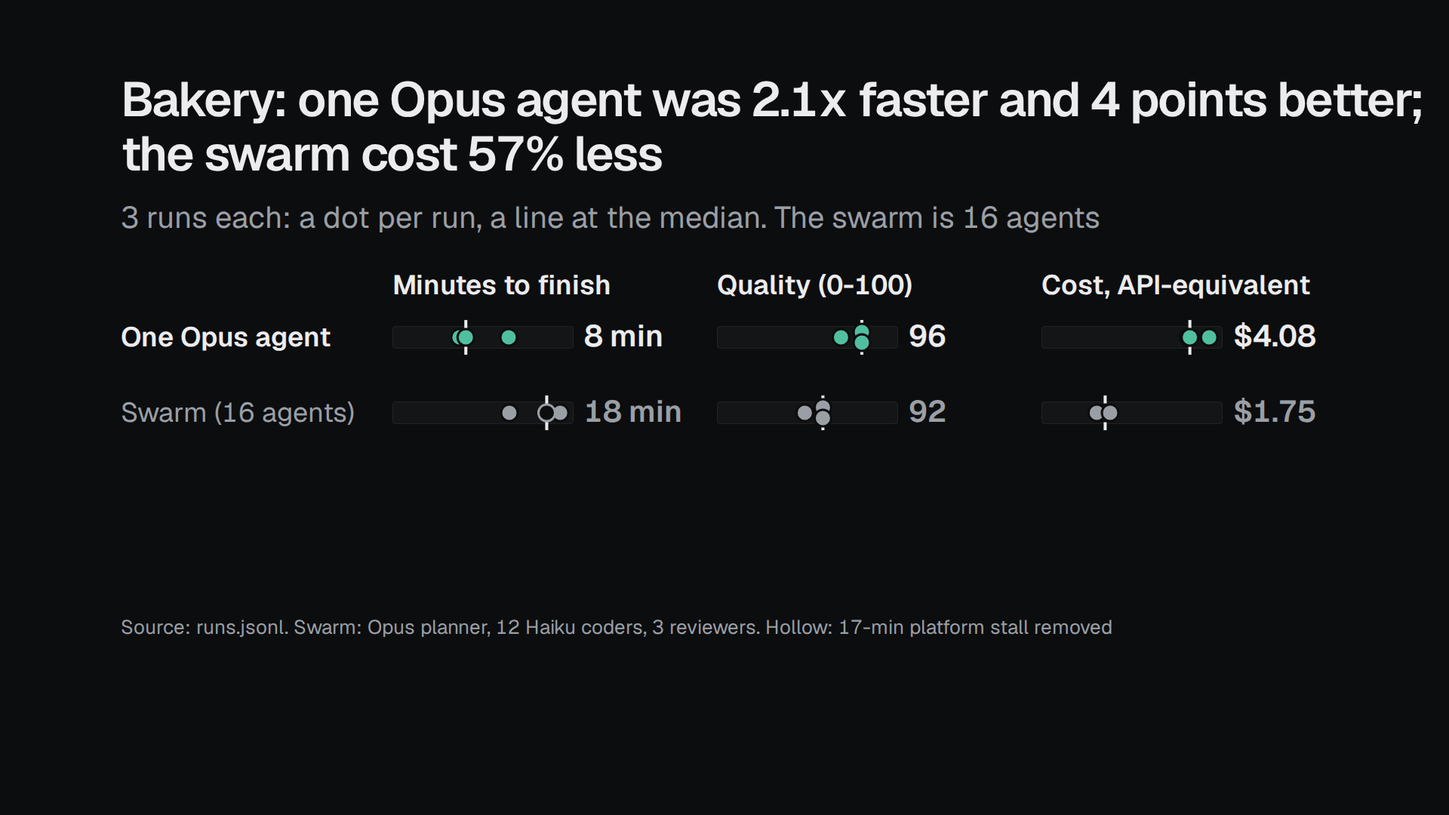
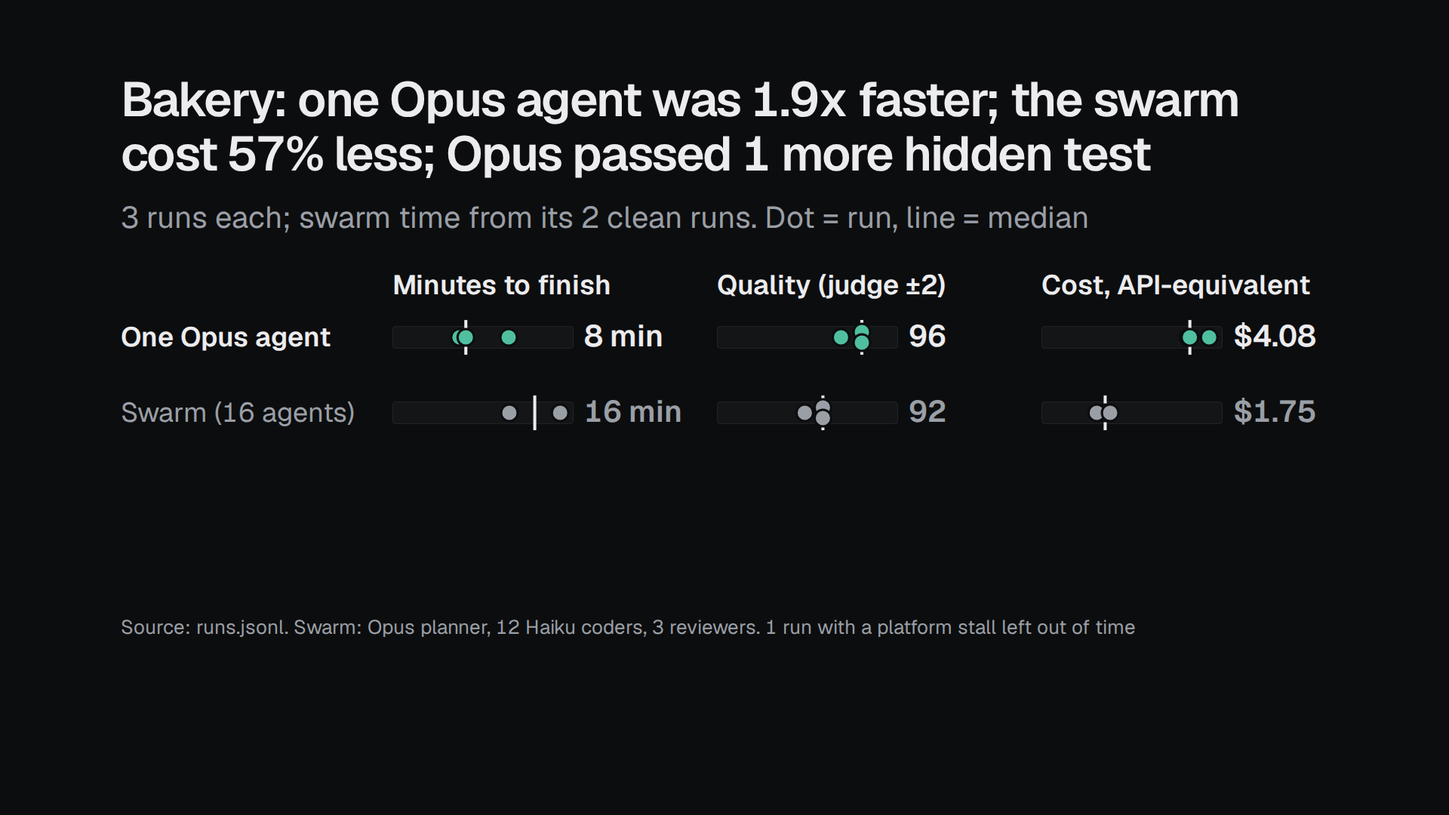
Lab charts: stalled runs left out of time (manager's rule, no stall subtraction); quality said in hidden tests passed (judge gap = tie)
Bakery: swarm time from its 2 clean runs (811, 1163 s -> median 987 s) vs Opus 509 s = 1.9x;
quality: Opus passed 1 more hidden test (26 vs 25 of 26). Club: interim, 'the same quality:
both passed 42 of 42'. Under 15% apart reads 'about as fast'.

diff --git a/docs/lab/charts/index.html b/docs/lab/charts/index.html
@@ -26,10 +26,16 @@ footer { margin-top: 56px; color: var(--dim); font-size: 13px; }
 <header><h1>Variants lab: results</h1>
 <p>Real runs from public/lab/runs.jsonl: each dot is one run; quality is the lab score (hidden tests, floor, a Sonnet judge).</p></header>
 <section id="lab-bakery" aria-labelledby="lab-bakery-h">
-<h2 id="lab-bakery-h" hidden>Bakery: one Opus agent was 2.1x faster and 4 points better; the swarm cost 57% less</h2>
-<div class="L"><svg xmlns="http://www.w3.org/2000/svg" style="aspect-ratio:1920/1080" viewBox="0 0 1920 1080" role="img" aria-label="Bakery: one Opus agent was 2.1x faster and 4 points better; the swarm cost 57% less" font-family="Geist, 'Instrument Sans', system-ui, sans-serif"><rect width="1920" height="1080" fill="var(--bg)"/><text x="160" y="154.4" font-size="64" font-weight="600" fill="var(--fg)" letter-spacing="-1.6" style="font-variant-numeric:tabular-nums">Bakery: one Opus agent was 2.1x faster and 4 points better;</text><text x="160" y="226.08" font-size="64" font-weight="600" fill="var(--fg)" letter-spacing="-1.6" style="font-variant-numeric:tabular-nums">the swarm cost 57% less</text><text x="160" y="302.08000000000004" font-size="40" font-weight="400" fill="var(--dim)" style="font-variant-numeric:tabular-nums">3 runs each: a dot per run, a line at the median. The swarm is 16 agents</text><text x="520" y="390.08000000000004" font-size="36" font-weight="600" fill="var(--fg)" style="font-variant-numeric:tabular-nums">Minutes to finish</text><text x="160" y="459.08000000000004" font-size="36" font-weight="600" fill="var(--fg)" style="font-variant-numeric:tabular-nums">One Opus agent</text><rect x="520" y="432.08000000000004" width="240" height="30" rx="4" fill="var(--card)"/><rect x="520.5" y="432.58000000000004" width="239" height="29" rx="4" fill="none" stroke="var(--line)"/><rect x="615.2580491067163" y="424.08000000000004" width="4" height="46" fill="var(--fg)"><title>One Opus agent, median 8 min</title></rect><circle cx="674.0078341454093" cy="447.08000000000004" r="11" fill="var(--acc)" stroke="var(--bg)" stroke-width="3"/><circle cx="608.8506735454284" cy="447.08000000000004" r="11" fill="var(--acc)" stroke="var(--bg)" stroke-width="3"/><circle cx="617.2580491067163" cy="447.08000000000004" r="11" fill="var(--acc)" stroke="var(--bg)" stroke-width="3"/><text x="774" y="459.08000000000004" font-size="40" font-weight="600" fill="var(--fg)" style="font-variant-numeric:tabular-nums">8 min</text><text x="160" y="559.08" font-size="36" font-weight="400" fill="var(--dim)" style="font-variant-numeric:tabular-nums">Swarm (16 agents)</text><rect x="520" y="532.08" width="240" height="30" rx="4" fill="var(--card)"/><rect x="520.5" y="532.58" width="239" height="29" rx="4" fill="none" stroke="var(--line)"/><rect x="722.4520875131365" y="524.08" width="4" height="46" fill="var(--fg)"><title>Swarm (16 agents), median 18 min</title></rect><circle cx="674.9632177319194" cy="547.08" r="11" fill="var(--dim)" stroke="var(--bg)" stroke-width="3"/><circle cx="742.2222222222222" cy="547.08" r="11" fill="var(--dim)" stroke="var(--bg)" stroke-width="3"/><circle cx="724.4520875131365" cy="547.08" r="11" fill="var(--bg)" stroke="var(--dim)" stroke-width="3"/><text x="774" y="559.08" font-size="40" font-weight="600" fill="var(--dim)" style="font-variant-numeric:tabular-nums">18 min</text><text x="950" y="390.08000000000004" font-size="36" font-weight="600" fill="var(--fg)" style="font-variant-numeric:tabular-nums">Quality (0-100)</text><rect x="950" y="432.08000000000004" width="240" height="30" rx="4" fill="var(--card)"/><rect x="950.5" y="432.58000000000004" width="239" height="29" rx="4" fill="none" stroke="var(--line)"/><rect x="1140" y="424.08000000000004" width="4" height="46" fill="var(--fg)"><title>One Opus agent, median 96</title></rect><circle cx="1142" cy="440.08000000000004" r="11" fill="var(--acc)" stroke="var(--bg)" stroke-width="3"/><circle cx="1142" cy="454.08000000000004" r="11" fill="var(--acc)" stroke="var(--bg)" stroke-width="3"/><circle cx="1114.4" cy="447.08000000000004" r="11" fill="var(--acc)" stroke="var(--bg)" stroke-width="3"/><text x="1204" y="459.08000000000004" font-size="40" font-weight="600" fill="var(--fg)" style="font-variant-numeric:tabular-nums">96</text><rect x="950" y="532.08" width="240" height="30" rx="4" fill="var(--card)"/><rect x="950.5" y="532.58" width="239" height="29" rx="4" fill="none" stroke="var(--line)"/><rect x="1088.4" y="524.08" width="4" height="46" fill="var(--fg)"><title>Swarm (16 agents), median 92</title></rect><circle cx="1066.4" cy="547.08" r="11" fill="var(--dim)" stroke="var(--bg)" stroke-width="3"/><circle cx="1090.4" cy="540.08" r="11" fill="var(--dim)" stroke="var(--bg)" stroke-width="3"/><circle cx="1090.4" cy="554.08" r="11" fill="var(--dim)" stroke="var(--bg)" stroke-width="3"/><text x="1204" y="559.08" font-size="40" font-weight="600" fill="var(--dim)" style="font-variant-numeric:tabular-nums">92</text><text x="1380" y="390.08000000000004" font-size="36" font-weight="600" fill="var(--fg)" style="font-variant-numeric:tabular-nums">Cost, API-equivalent</text><rect x="1380" y="432.08000000000004" width="240" height="30" rx="4" fill="var(--card)"/><rect x="1380.5" y="432.58000000000004" width="239" height="29" rx="4" fill="none" stroke="var(--line)"/><rect x="1574.6423392827035" y="424.08000000000004" width="4" height="46" fill="var(--fg)"><title>One Opus agent, median $4.08</title></rect><circle cx="1574.4745525929138" cy="447.08000000000004" r="11" fill="var(--acc)" stroke="var(--bg)" stroke-width="3"/><circle cx="1576.6423392827035" cy="447.08000000000004" r="11" fill="var(--acc)" stroke="var(--bg)" stroke-width="3"/><circle cx="1602.2222222222222" cy="447.08000000000004" r="11" fill="var(--acc)" stroke="var(--bg)" stroke-width="3"/><text x="1634" y="459.08000000000004" font-size="40" font-weight="600" fill="var(--fg)" style="font-variant-numeric:tabular-nums">$4.08</text><rect x="1380" y="532.08" width="240" height="30" rx="4" fill="var(--card)"/><rect x="1380.5" y="532.58" width="239" height="29" rx="4" fill="none" stroke="var(--line)"/><rect x="1462.3991617891465" y="524.08" width="4" height="46" fill="var(--fg)"><title>Swarm (16 agents), median $1.75</title></rect><circle cx="1464.3991617891465" cy="547.08" r="11" fill="var(--dim)" stroke="var(--bg)" stroke-width="3"/><circle cx="1453.3193631524437" cy="547.08" r="11" fill="var(--dim)" stroke="var(--bg)" stroke-width="3"/><circle cx="1470.9988679336175" cy="547.08" r="11" fill="var(--dim)" stroke="var(--bg)" stroke-width="3"/><text x="1634" y="559.08" font-size="40" font-weight="600" fill="var(--dim)" style="font-variant-numeric:tabular-nums">$1.75</text><text x="160" y="840" font-size="26" font-weight="400" fill="var(--dim)" style="font-variant-numeric:tabular-nums">Source: runs.jsonl. Swarm: Opus planner, 12 Haiku coders, 3 reviewers. Hollow: 17-min platform stall removed</text></svg></div><div class="P"><svg xmlns="http://www.w3.org/2000/svg" style="aspect-ratio:1080/1350" viewBox="0 0 1080 1350" role="img" aria-label="Bakery: one Opus agent was 2.1x faster and 4 points better; the swarm cost 57% less" font-family="Geist, 'Instrument Sans', system-ui, sans-serif"><rect width="1080" height="1350" fill="var(--bg)"/><text x="56" y="136.7" font-size="62" font-weight="600" fill="var(--fg)" letter-spacing="-1.6" style="font-variant-numeric:tabular-nums">Bakery: one Opus agent was 2.1x</text><text x="56" y="206.14" font-size="62" font-weight="600" fill="var(--fg)" letter-spacing="-1.6" style="font-variant-numeric:tabular-nums">faster and 4 points better; the</text><text x="56" y="275.58000000000004" font-size="62" font-weight="600" fill="var(--fg)" letter-spacing="-1.6" style="font-variant-numeric:tabular-nums">swarm cost 57% less</text><text x="56" y="355.58000000000004" font-size="44" font-weight="400" fill="var(--dim)" style="font-variant-numeric:tabular-nums">3 runs each, dot = a run,</text><text x="56" y="414.98" font-size="44" font-weight="400" fill="var(--dim)" style="font-variant-numeric:tabular-nums">line = the median</text><text x="56" y="506.98" font-size="40" font-weight="600" fill="var(--fg)" style="font-variant-numeric:tabular-nums">Minutes to finish</text><text x="56" y="564.98" font-size="34" font-weight="600" fill="var(--fg)" style="font-variant-numeric:tabular-nums">Opus</text><rect x="206" y="538.98" width="678" height="30" rx="4" fill="var(--card)"/><rect x="206.5" y="539.48" width="677" height="29" rx="4" fill="none" stroke="var(--line)"/><rect x="478.75398872647366" y="530.98" width="4" height="46" fill="var(--fg)"><title>One Opus agent, median 8 min</title></rect><circle cx="641.0721314607815" cy="553.98" r="11" fill="var(--acc)" stroke="var(--bg)" stroke-width="3"/><circle cx="457.00315276583547" cy="553.98" r="11" fill="var(--acc)" stroke="var(--bg)" stroke-width="3"/><circle cx="480.75398872647366" cy="553.98" r="11" fill="var(--acc)" stroke="var(--bg)" stroke-width="3"/><text x="898" y="565.98" font-size="36" font-weight="600" fill="var(--fg)" style="font-variant-numeric:tabular-nums">8 min</text><text x="56" y="634.98" font-size="34" font-weight="400" fill="var(--dim)" style="font-variant-numeric:tabular-nums">Swarm</text><rect x="206" y="608.98" width="678" height="30" rx="4" fill="var(--card)"/><rect x="206.5" y="609.48" width="677" height="29" rx="4" fill="none" stroke="var(--line)"/><rect x="781.5771472246106" y="600.98" width="4" height="46" fill="var(--fg)"><title>Swarm (16 agents), median 18 min</title></rect><circle cx="643.7710900926722" cy="623.98" r="11" fill="var(--dim)" stroke="var(--bg)" stroke-width="3"/><circle cx="833.7777777777777" cy="623.98" r="11" fill="var(--dim)" stroke="var(--bg)" stroke-width="3"/><circle cx="783.5771472246106" cy="623.98" r="11" fill="var(--bg)" stroke="var(--dim)" stroke-width="3"/><text x="898" y="635.98" font-size="36" font-weight="600" fill="var(--dim)" style="font-variant-numeric:tabular-nums">18 min</text><text x="56" y="746.98" font-size="40" font-weight="600" fill="var(--fg)" style="font-variant-numeric:tabular-nums">Quality (0-100)</text><text x="56" y="804.98" font-size="34" font-weight="600" fill="var(--fg)" style="font-variant-numeric:tabular-nums">Opus</text><rect x="206" y="778.98" width="678" height="30" rx="4" fill="var(--card)"/><rect x="206.5" y="779.48" width="677" height="29" rx="4" fill="none" stroke="var(--line)"/><rect x="746.4" y="770.98" width="4" height="46" fill="var(--fg)"><title>One Opus agent, median 96</title></rect><circle cx="748.4" cy="786.98" r="11" fill="var(--acc)" stroke="var(--bg)" stroke-width="3"/><circle cx="748.4" cy="800.98" r="11" fill="var(--acc)" stroke="var(--bg)" stroke-width="3"/><circle cx="670.4300000000001" cy="793.98" r="11" fill="var(--acc)" stroke="var(--bg)" stroke-width="3"/><text x="898" y="805.98" font-size="36" font-weight="600" fill="var(--fg)" style="font-variant-numeric:tabular-nums">96</text><text x="56" y="874.98" font-size="34" font-weight="400" fill="var(--dim)" style="font-variant-numeric:tabular-nums">Swarm</text><rect x="206" y="848.98" width="678" height="30" rx="4" fill="var(--card)"/><rect x="206.5" y="849.48" width="677" height="29" rx="4" fill="none" stroke="var(--line)"/><rect x="600.6300000000001" y="840.98" width="4" height="46" fill="var(--fg)"><title>Swarm (16 agents), median 92</title></rect><circle cx="534.8300000000002" cy="863.98" r="11" fill="var(--dim)" stroke="var(--bg)" stroke-width="3"/><circle cx="602.6300000000001" cy="856.98" r="11" fill="var(--dim)" stroke="var(--bg)" stroke-width="3"/><circle cx="602.6300000000001" cy="870.98" r="11" fill="var(--dim)" stroke="var(--bg)" stroke-width="3"/><text x="898" y="875.98" font-size="36" font-weight="600" fill="var(--dim)" style="font-variant-numeric:tabular-nums">92</text><text x="56" y="986.98" font-size="40" font-weight="600" fill="var(--fg)" style="font-variant-numeric:tabular-nums">Cost, API-equivalent</text><text x="56" y="1044.98" font-size="34" font-weight="600" fill="var(--fg)" style="font-variant-numeric:tabular-nums">Opus</text><rect x="206" y="1018.98" width="678" height="30" rx="4" fill="var(--card)"/><rect x="206.5" y="1019.48" width="677" height="29" rx="4" fill="none" stroke="var(--line)"/><rect x="759.5146084736373" y="1010.98" width="4" height="46" fill="var(--fg)"><title>One Opus agent, median $4.08</title></rect><circle cx="755.3906110749813" cy="1033.98" r="11" fill="var(--acc)" stroke="var(--bg)" stroke-width="3"/><circle cx="761.5146084736373" cy="1033.98" r="11" fill="var(--acc)" stroke="var(--bg)" stroke-width="3"/><circle cx="833.7777777777778" cy="1033.98" r="11" fill="var(--acc)" stroke="var(--bg)" stroke-width="3"/><text x="898" y="1045.98" font-size="36" font-weight="600" fill="var(--fg)" style="font-variant-numeric:tabular-nums">$4.08</text><text x="56" y="1114.98" font-size="34" font-weight="400" fill="var(--dim)" style="font-variant-numeric:tabular-nums">Swarm</text><rect x="206" y="1088.98" width="678" height="30" rx="4" fill="var(--card)"/><rect x="206.5" y="1089.48" width="677" height="29" rx="4" fill="none" stroke="var(--line)"/><rect x="442.42763205433914" y="1080.98" width="4" height="46" fill="var(--fg)"><title>Swarm (16 agents), median $1.75</title></rect><circle cx="444.42763205433914" cy="1103.98" r="11" fill="var(--dim)" stroke="var(--bg)" stroke-width="3"/><circle cx="413.1272009056531" cy="1103.98" r="11" fill="var(--dim)" stroke="var(--bg)" stroke-width="3"/><circle cx="463.0718019124696" cy="1103.98" r="11" fill="var(--dim)" stroke="var(--bg)" stroke-width="3"/><text x="898" y="1115.98" font-size="36" font-weight="600" fill="var(--dim)" style="font-variant-numeric:tabular-nums">$1.75</text><text x="56" y="1252" font-size="30" font-weight="400" fill="var(--dim)" style="font-variant-numeric:tabular-nums">Source: runs.jsonl. Swarm: Opus planner, 12 Haiku</text><text x="56" y="1291" font-size="30" font-weight="400" fill="var(--dim)" style="font-variant-numeric:tabular-nums">coders, 3 reviewers. Hollow: 17-min platform stall removed</text></svg></div>
-<details><summary>The numbers</summary><table><tr><th>run</th><th>variant</th><th>minutes</th><th>platform stall</th><th>quality</th><th>API-equivalent $</th></tr><tr><td>lab-bakery-712d7-r1</td><td>one Opus agent</td><td>13.4</td><td></td><td>96</td><td>4.04</td></tr><tr><td>lab-bakery-aa826-r2</td><td>one Opus agent</td><td>7.8</td><td></td><td>96</td><td>4.08</td></tr><tr><td>lab-bakery-aa826-r3</td><td>one Opus agent</td><td>8.5</td><td></td><td>93.7</td><td>4.61</td></tr><tr><td>lab-bakery-7fe05-r1</td><td>swarm</td><td>13.5</td><td></td><td>89.7</td><td>1.75</td></tr><tr><td>lab-bakery-bfe16-r2</td><td>swarm</td><td>19.4</td><td></td><td>91.7</td><td>1.52</td></tr><tr><td>lab-bakery-bfe16-r3</td><td>swarm</td><td>34.8</td><td>17.0 min</td><td>91.7</td><td>1.89</td></tr></table>
+<h2 id="lab-bakery-h" hidden>Bakery: one Opus agent was 1.9x faster; the swarm cost 57% less; Opus passed 1 more hidden test</h2>
+<div class="L"><svg xmlns="http://www.w3.org/2000/svg" style="aspect-ratio:1920/1080" viewBox="0 0 1920 1080" role="img" aria-label="Bakery: one Opus agent was 1.9x faster; the swarm cost 57% less; Opus passed 1 more hidden test" font-family="Geist, 'Instrument Sans', system-ui, sans-serif"><rect width="1920" height="1080" fill="var(--bg)"/><text x="160" y="154.4" font-size="64" font-weight="600" fill="var(--fg)" letter-spacing="-1.6" style="font-variant-numeric:tabular-nums">Bakery: one Opus agent was 1.9x faster; the swarm</text><text x="160" y="226.08" font-size="64" font-weight="600" fill="var(--fg)" letter-spacing="-1.6" style="font-variant-numeric:tabular-nums">cost 57% less; Opus passed 1 more hidden test</text><text x="160" y="302.08000000000004" font-size="40" font-weight="400" fill="var(--dim)" style="font-variant-numeric:tabular-nums">3 runs each; swarm time from its 2 clean runs. Dot = run, line = median</text><text x="520" y="390.08000000000004" font-size="36" font-weight="600" fill="var(--fg)" style="font-variant-numeric:tabular-nums">Minutes to finish</text><text x="160" y="459.08000000000004" font-size="36" font-weight="600" fill="var(--fg)" style="font-variant-numeric:tabular-nums">One Opus agent</text><rect x="520" y="432.08000000000004" width="240" height="30" rx="4" fill="var(--card)"/><rect x="520.5" y="432.58000000000004" width="239" height="29" rx="4" fill="none" stroke="var(--line)"/><rect x="615.2580491067163" y="424.08000000000004" width="4" height="46" fill="var(--fg)"><title>One Opus agent, median 8 min</title></rect><circle cx="674.0078341454093" cy="447.08000000000004" r="11" fill="var(--acc)" stroke="var(--bg)" stroke-width="3"/><circle cx="608.8506735454284" cy="447.08000000000004" r="11" fill="var(--acc)" stroke="var(--bg)" stroke-width="3"/><circle cx="617.2580491067163" cy="447.08000000000004" r="11" fill="var(--acc)" stroke="var(--bg)" stroke-width="3"/><text x="774" y="459.08000000000004" font-size="40" font-weight="600" fill="var(--fg)" style="font-variant-numeric:tabular-nums">8 min</text><text x="160" y="559.08" font-size="36" font-weight="400" fill="var(--dim)" style="font-variant-numeric:tabular-nums">Swarm (16 agents)</text><rect x="520" y="532.08" width="240" height="30" rx="4" fill="var(--card)"/><rect x="520.5" y="532.58" width="239" height="29" rx="4" fill="none" stroke="var(--line)"/><rect x="706.5927199770708" y="524.08" width="4" height="46" fill="var(--fg)"><title>Swarm (16 agents), median 16 min</title></rect><circle cx="674.9632177319194" cy="547.08" r="11" fill="var(--dim)" stroke="var(--bg)" stroke-width="3"/><circle cx="742.2222222222222" cy="547.08" r="11" fill="var(--dim)" stroke="var(--bg)" stroke-width="3"/><text x="774" y="559.08" font-size="40" font-weight="600" fill="var(--dim)" style="font-variant-numeric:tabular-nums">16 min</text><text x="950" y="390.08000000000004" font-size="36" font-weight="600" fill="var(--fg)" style="font-variant-numeric:tabular-nums">Quality (judge ±2)</text><rect x="950" y="432.08000000000004" width="240" height="30" rx="4" fill="var(--card)"/><rect x="950.5" y="432.58000000000004" width="239" height="29" rx="4" fill="none" stroke="var(--line)"/><rect x="1140" y="424.08000000000004" width="4" height="46" fill="var(--fg)"><title>One Opus agent, median 96</title></rect><circle cx="1142" cy="440.08000000000004" r="11" fill="var(--acc)" stroke="var(--bg)" stroke-width="3"/><circle cx="1142" cy="454.08000000000004" r="11" fill="var(--acc)" stroke="var(--bg)" stroke-width="3"/><circle cx="1114.4" cy="447.08000000000004" r="11" fill="var(--acc)" stroke="var(--bg)" stroke-width="3"/><text x="1204" y="459.08000000000004" font-size="40" font-weight="600" fill="var(--fg)" style="font-variant-numeric:tabular-nums">96</text><rect x="950" y="532.08" width="240" height="30" rx="4" fill="var(--card)"/><rect x="950.5" y="532.58" width="239" height="29" rx="4" fill="none" stroke="var(--line)"/><rect x="1088.4" y="524.08" width="4" height="46" fill="var(--fg)"><title>Swarm (16 agents), median 92</title></rect><circle cx="1066.4" cy="547.08" r="11" fill="var(--dim)" stroke="var(--bg)" stroke-width="3"/><circle cx="1090.4" cy="540.08" r="11" fill="var(--dim)" stroke="var(--bg)" stroke-width="3"/><circle cx="1090.4" cy="554.08" r="11" fill="var(--dim)" stroke="var(--bg)" stroke-width="3"/><text x="1204" y="559.08" font-size="40" font-weight="600" fill="var(--dim)" style="font-variant-numeric:tabular-nums">92</text><text x="1380" y="390.08000000000004" font-size="36" font-weight="600" fill="var(--fg)" style="font-variant-numeric:tabular-nums">Cost, API-equivalent</text><rect x="1380" y="432.08000000000004" width="240" height="30" rx="4" fill="var(--card)"/><rect x="1380.5" y="432.58000000000004" width="239" height="29" rx="4" fill="none" stroke="var(--line)"/><rect x="1574.6423392827035" y="424.08000000000004" width="4" height="46" fill="var(--fg)"><title>One Opus agent, median $4.08</title></rect><circle cx="1574.4745525929138" cy="447.08000000000004" r="11" fill="var(--acc)" stroke="var(--bg)" stroke-width="3"/><circle cx="1576.6423392827035" cy="447.08000000000004" r="11" fill="var(--acc)" stroke="var(--bg)" stroke-width="3"/><circle cx="1602.2222222222222" cy="447.08000000000004" r="11" fill="var(--acc)" stroke="var(--bg)" stroke-width="3"/><text x="1634" y="459.08000000000004" font-size="40" font-weight="600" fill="var(--fg)" style="font-variant-numeric:tabular-nums">$4.08</text><rect x="1380" y="532.08" width="240" height="30" rx="4" fill="var(--card)"/><rect x="1380.5" y="532.58" width="239" height="29" rx="4" fill="none" stroke="var(--line)"/><rect x="1462.3991617891465" y="524.08" width="4" height="46" fill="var(--fg)"><title>Swarm (16 agents), median $1.75</title></rect><circle cx="1464.3991617891465" cy="547.08" r="11" fill="var(--dim)" stroke="var(--bg)" stroke-width="3"/><circle cx="1453.3193631524437" cy="547.08" r="11" fill="var(--dim)" stroke="var(--bg)" stroke-width="3"/><circle cx="1470.9988679336175" cy="547.08" r="11" fill="var(--dim)" stroke="var(--bg)" stroke-width="3"/><text x="1634" y="559.08" font-size="40" font-weight="600" fill="var(--dim)" style="font-variant-numeric:tabular-nums">$1.75</text><text x="160" y="840" font-size="26" font-weight="400" fill="var(--dim)" style="font-variant-numeric:tabular-nums">Source: runs.jsonl. Swarm: Opus planner, 12 Haiku coders, 3 reviewers. 1 run with a platform stall left out of time</text></svg></div><div class="P"><svg xmlns="http://www.w3.org/2000/svg" style="aspect-ratio:1080/1350" viewBox="0 0 1080 1350" role="img" aria-label="Bakery: one Opus agent was 1.9x faster; the swarm cost 57% less; Opus passed 1 more hidden test" font-family="Geist, 'Instrument Sans', system-ui, sans-serif"><rect width="1080" height="1350" fill="var(--bg)"/><text x="56" y="136.7" font-size="62" font-weight="600" fill="var(--fg)" letter-spacing="-1.6" style="font-variant-numeric:tabular-nums">Bakery: one Opus agent was 1.9x</text><text x="56" y="206.14" font-size="62" font-weight="600" fill="var(--fg)" letter-spacing="-1.6" style="font-variant-numeric:tabular-nums">faster; the swarm cost 57%</text><text x="56" y="275.58000000000004" font-size="62" font-weight="600" fill="var(--fg)" letter-spacing="-1.6" style="font-variant-numeric:tabular-nums">less; Opus passed 1 more hidden</text><text x="56" y="345.02" font-size="62" font-weight="600" fill="var(--fg)" letter-spacing="-1.6" style="font-variant-numeric:tabular-nums">test</text><text x="56" y="425.02000000000004" font-size="44" font-weight="400" fill="var(--dim)" style="font-variant-numeric:tabular-nums">3 runs each; swarm time from its 2 clean runs, dot = a run,</text><text x="56" y="484.4200000000001" font-size="44" font-weight="400" fill="var(--dim)" style="font-variant-numeric:tabular-nums">line = the median</text><text x="56" y="576.4200000000001" font-size="40" font-weight="600" fill="var(--fg)" style="font-variant-numeric:tabular-nums">Minutes to finish</text><text x="56" y="634.4200000000001" font-size="34" font-weight="600" fill="var(--fg)" style="font-variant-numeric:tabular-nums">Opus</text><rect x="206" y="608.4200000000001" width="678" height="30" rx="4" fill="var(--card)"/><rect x="206.5" y="608.9200000000001" width="677" height="29" rx="4" fill="none" stroke="var(--line)"/><rect x="478.75398872647366" y="600.4200000000001" width="4" height="46" fill="var(--fg)"><title>One Opus agent, median 8 min</title></rect><circle cx="641.0721314607815" cy="623.4200000000001" r="11" fill="var(--acc)" stroke="var(--bg)" stroke-width="3"/><circle cx="457.00315276583547" cy="623.4200000000001" r="11" fill="var(--acc)" stroke="var(--bg)" stroke-width="3"/><circle cx="480.75398872647366" cy="623.4200000000001" r="11" fill="var(--acc)" stroke="var(--bg)" stroke-width="3"/><text x="898" y="635.4200000000001" font-size="36" font-weight="600" fill="var(--fg)" style="font-variant-numeric:tabular-nums">8 min</text><text x="56" y="704.4200000000001" font-size="34" font-weight="400" fill="var(--dim)" style="font-variant-numeric:tabular-nums">Swarm</text><rect x="206" y="678.4200000000001" width="678" height="30" rx="4" fill="var(--card)"/><rect x="206.5" y="678.9200000000001" width="677" height="29" rx="4" fill="none" stroke="var(--line)"/><rect x="736.7744339352249" y="670.4200000000001" width="4" height="46" fill="var(--fg)"><title>Swarm (16 agents), median 16 min</title></rect><circle cx="643.7710900926722" cy="693.4200000000001" r="11" fill="var(--dim)" stroke="var(--bg)" stroke-width="3"/><circle cx="833.7777777777777" cy="693.4200000000001" r="11" fill="var(--dim)" stroke="var(--bg)" stroke-width="3"/><text x="898" y="705.4200000000001" font-size="36" font-weight="600" fill="var(--dim)" style="font-variant-numeric:tabular-nums">16 min</text><text x="56" y="796.9466666666667" font-size="40" font-weight="600" fill="var(--fg)" style="font-variant-numeric:tabular-nums">Quality (judge ±2)</text><text x="56" y="854.9466666666667" font-size="34" font-weight="600" fill="var(--fg)" style="font-variant-numeric:tabular-nums">Opus</text><rect x="206" y="828.9466666666667" width="678" height="30" rx="4" fill="var(--card)"/><rect x="206.5" y="829.4466666666667" width="677" height="29" rx="4" fill="none" stroke="var(--line)"/><rect x="746.4" y="820.9466666666667" width="4" height="46" fill="var(--fg)"><title>One Opus agent, median 96</title></rect><circle cx="748.4" cy="836.9466666666667" r="11" fill="var(--acc)" stroke="var(--bg)" stroke-width="3"/><circle cx="748.4" cy="850.9466666666667" r="11" fill="var(--acc)" stroke="var(--bg)" stroke-width="3"/><circle cx="670.4300000000001" cy="843.9466666666667" r="11" fill="var(--acc)" stroke="var(--bg)" stroke-width="3"/><text x="898" y="855.9466666666667" font-size="36" font-weight="600" fill="var(--fg)" style="font-variant-numeric:tabular-nums">96</text><text x="56" y="924.9466666666667" font-size="34" font-weight="400" fill="var(--dim)" style="font-variant-numeric:tabular-nums">Swarm</text><rect x="206" y="898.9466666666667" width="678" height="30" rx="4" fill="var(--card)"/><rect x="206.5" y="899.4466666666667" width="677" height="29" rx="4" fill="none" stroke="var(--line)"/><rect x="600.6300000000001" y="890.9466666666667" width="4" height="46" fill="var(--fg)"><title>Swarm (16 agents), median 92</title></rect><circle cx="534.8300000000002" cy="913.9466666666667" r="11" fill="var(--dim)" stroke="var(--bg)" stroke-width="3"/><circle cx="602.6300000000001" cy="906.9466666666667" r="11" fill="var(--dim)" stroke="var(--bg)" stroke-width="3"/><circle cx="602.6300000000001" cy="920.9466666666667" r="11" fill="var(--dim)" stroke="var(--bg)" stroke-width="3"/><text x="898" y="925.9466666666667" font-size="36" font-weight="600" fill="var(--dim)" style="font-variant-numeric:tabular-nums">92</text><text x="56" y="1017.4733333333334" font-size="40" font-weight="600" fill="var(--fg)" style="font-variant-numeric:tabular-nums">Cost, API-equivalent</text><text x="56" y="1075.4733333333334" font-size="34" font-weight="600" fill="var(--fg)" style="font-variant-numeric:tabular-nums">Opus</text><rect x="206" y="1049.4733333333334" width="678" height="30" rx="4" fill="var(--card)"/><rect x="206.5" y="1049.9733333333334" width="677" height="29" rx="4" fill="none" stroke="var(--line)"/><rect x="759.5146084736373" y="1041.4733333333334" width="4" height="46" fill="var(--fg)"><title>One Opus agent, median $4.08</title></rect><circle cx="755.3906110749813" cy="1064.4733333333334" r="11" fill="var(--acc)" stroke="var(--bg)" stroke-width="3"/><circle cx="761.5146084736373" cy="1064.4733333333334" r="11" fill="var(--acc)" stroke="var(--bg)" stroke-width="3"/><circle cx="833.7777777777778" cy="1064.4733333333334" r="11" fill="var(--acc)" stroke="var(--bg)" stroke-width="3"/><text x="898" y="1076.4733333333334" font-size="36" font-weight="600" fill="var(--fg)" style="font-variant-numeric:tabular-nums">$4.08</text><text x="56" y="1145.4733333333334" font-size="34" font-weight="400" fill="var(--dim)" style="font-variant-numeric:tabular-nums">Swarm</text><rect x="206" y="1119.4733333333334" width="678" height="30" rx="4" fill="var(--card)"/><rect x="206.5" y="1119.9733333333334" width="677" height="29" rx="4" fill="none" stroke="var(--line)"/><rect x="442.42763205433914" y="1111.4733333333334" width="4" height="46" fill="var(--fg)"><title>Swarm (16 agents), median $1.75</title></rect><circle cx="444.42763205433914" cy="1134.4733333333334" r="11" fill="var(--dim)" stroke="var(--bg)" stroke-width="3"/><circle cx="413.1272009056531" cy="1134.4733333333334" r="11" fill="var(--dim)" stroke="var(--bg)" stroke-width="3"/><circle cx="463.0718019124696" cy="1134.4733333333334" r="11" fill="var(--dim)" stroke="var(--bg)" stroke-width="3"/><text x="898" y="1146.4733333333334" font-size="36" font-weight="600" fill="var(--dim)" style="font-variant-numeric:tabular-nums">$1.75</text><text x="56" y="1252" font-size="30" font-weight="400" fill="var(--dim)" style="font-variant-numeric:tabular-nums">Source: runs.jsonl. Swarm: Opus planner, 12 Haiku</text><text x="56" y="1291" font-size="30" font-weight="400" fill="var(--dim)" style="font-variant-numeric:tabular-nums">coders, 3 reviewers. 1 run with a platform stall left out of time</text></svg></div>
+<details><summary>The numbers</summary><table><tr><th>run</th><th>variant</th><th>minutes</th><th>platform stall</th><th>hidden tests</th><th>judge</th><th>quality</th><th>API-equivalent $</th></tr><tr><td>lab-bakery-712d7-r1</td><td>one Opus agent</td><td>13.4</td><td></td><td>26/26</td><td>8</td><td>96</td><td>4.04</td></tr><tr><td>lab-bakery-aa826-r2</td><td>one Opus agent</td><td>7.8</td><td></td><td>26/26</td><td>8</td><td>96</td><td>4.08</td></tr><tr><td>lab-bakery-aa826-r3</td><td>one Opus agent</td><td>8.5</td><td></td><td>25/26</td><td>8</td><td>93.7</td><td>4.61</td></tr><tr><td>lab-bakery-7fe05-r1</td><td>swarm</td><td>13.5</td><td></td><td>25/26</td><td>6</td><td>89.7</td><td>1.75</td></tr><tr><td>lab-bakery-bfe16-r2</td><td>swarm</td><td>19.4</td><td></td><td>25/26</td><td>7</td><td>91.7</td><td>1.52</td></tr><tr><td>lab-bakery-bfe16-r3</td><td>swarm</td><td>34.8</td><td>yes: left out of time</td><td>25/26</td><td>7</td><td>91.7</td><td>1.89</td></tr></table>
 <p class="files">Source: public/lab/runs.jsonl, scenario bakery, status done. Files: <a href="lab-bakery-1920x1080-dark.png">1920x1080 dark</a> <a href="lab-bakery-1920x1080-light.png">1920x1080 light</a> <a href="lab-bakery-1080x1350-dark.png">1080x1350 dark</a> <a href="lab-bakery-1080x1350-light.png">1080x1350 light</a></p></details>
+</section>
+<section id="lab-club" aria-labelledby="lab-club-h">
+<h2 id="lab-club-h" hidden>Club: one Opus agent was 1.5x faster; the swarm cost 50% less; the same quality: both passed 42 of 42 hidden tests</h2>
+<div class="L"><svg xmlns="http://www.w3.org/2000/svg" style="aspect-ratio:1920/1080" viewBox="0 0 1920 1080" role="img" aria-label="Club: one Opus agent was 1.5x faster; the swarm cost 50% less; the same quality: both passed 42 of 42 hidden tests" font-family="Geist, 'Instrument Sans', system-ui, sans-serif"><rect width="1920" height="1080" fill="var(--bg)"/><text x="160" y="154.4" font-size="64" font-weight="600" fill="var(--fg)" letter-spacing="-1.6" style="font-variant-numeric:tabular-nums">Club: one Opus agent was 1.5x faster; the swarm</text><text x="160" y="226.08" font-size="64" font-weight="600" fill="var(--fg)" letter-spacing="-1.6" style="font-variant-numeric:tabular-nums">cost 50% less; the same quality: both passed 42 of</text><text x="160" y="297.76" font-size="64" font-weight="600" fill="var(--fg)" letter-spacing="-1.6" style="font-variant-numeric:tabular-nums">42 hidden tests</text><text x="160" y="373.76" font-size="40" font-weight="400" fill="var(--dim)" style="font-variant-numeric:tabular-nums">Interim, 1 vs 2 runs; swarm time from its 1 clean run. Dot = run, line = median</text><text x="520" y="461.76" font-size="36" font-weight="600" fill="var(--fg)" style="font-variant-numeric:tabular-nums">Minutes to finish</text><text x="160" y="530.76" font-size="36" font-weight="600" fill="var(--fg)" style="font-variant-numeric:tabular-nums">One Opus agent</text><rect x="520" y="503.76" width="240" height="30" rx="4" fill="var(--card)"/><rect x="520.5" y="504.26" width="239" height="29" rx="4" fill="none" stroke="var(--line)"/><rect x="667.5557315034749" y="495.76" width="4" height="46" fill="var(--fg)"><title>One Opus agent, median 14 min</title></rect><circle cx="669.5557315034749" cy="518.76" r="11" fill="var(--acc)" stroke="var(--bg)" stroke-width="3"/><text x="774" y="530.76" font-size="40" font-weight="600" fill="var(--fg)" style="font-variant-numeric:tabular-nums">14 min</text><text x="160" y="630.76" font-size="36" font-weight="400" fill="var(--dim)" style="font-variant-numeric:tabular-nums">Swarm (16 agents)</text><rect x="520" y="603.76" width="240" height="30" rx="4" fill="var(--card)"/><rect x="520.5" y="604.26" width="239" height="29" rx="4" fill="none" stroke="var(--line)"/><rect x="740.2222222222222" y="595.76" width="4" height="46" fill="var(--fg)"><title>Swarm (16 agents), median 21 min</title></rect><circle cx="742.2222222222222" cy="618.76" r="11" fill="var(--dim)" stroke="var(--bg)" stroke-width="3"/><text x="774" y="630.76" font-size="40" font-weight="600" fill="var(--dim)" style="font-variant-numeric:tabular-nums">21 min</text><text x="950" y="461.76" font-size="36" font-weight="600" fill="var(--fg)" style="font-variant-numeric:tabular-nums">Quality (judge ±2)</text><rect x="950" y="503.76" width="240" height="30" rx="4" fill="var(--card)"/><rect x="950.5" y="504.26" width="239" height="29" rx="4" fill="none" stroke="var(--line)"/><rect x="1044" y="495.76" width="4" height="46" fill="var(--fg)"><title>One Opus agent, median 88</title></rect><circle cx="1046" cy="518.76" r="11" fill="var(--acc)" stroke="var(--bg)" stroke-width="3"/><text x="1204" y="530.76" font-size="40" font-weight="600" fill="var(--fg)" style="font-variant-numeric:tabular-nums">88</text><rect x="950" y="603.76" width="240" height="30" rx="4" fill="var(--card)"/><rect x="950.5" y="604.26" width="239" height="29" rx="4" fill="none" stroke="var(--line)"/><rect x="1092" y="595.76" width="4" height="46" fill="var(--fg)"><title>Swarm (16 agents), median 92</title></rect><circle cx="1094" cy="611.76" r="11" fill="var(--dim)" stroke="var(--bg)" stroke-width="3"/><circle cx="1094" cy="625.76" r="11" fill="var(--dim)" stroke="var(--bg)" stroke-width="3"/><text x="1204" y="630.76" font-size="40" font-weight="600" fill="var(--dim)" style="font-variant-numeric:tabular-nums">92</text><text x="1380" y="461.76" font-size="36" font-weight="600" fill="var(--fg)" style="font-variant-numeric:tabular-nums">Cost, API-equivalent</text><rect x="1380" y="503.76" width="240" height="30" rx="4" fill="var(--card)"/><rect x="1380.5" y="504.26" width="239" height="29" rx="4" fill="none" stroke="var(--line)"/><rect x="1600.2222222222222" y="495.76" width="4" height="46" fill="var(--fg)"><title>One Opus agent, median $5.78</title></rect><circle cx="1602.2222222222222" cy="518.76" r="11" fill="var(--acc)" stroke="var(--bg)" stroke-width="3"/><text x="1634" y="530.76" font-size="40" font-weight="600" fill="var(--fg)" style="font-variant-numeric:tabular-nums">$5.78</text><rect x="1380" y="603.76" width="240" height="30" rx="4" fill="var(--card)"/><rect x="1380.5" y="604.26" width="239" height="29" rx="4" fill="none" stroke="var(--line)"/><rect x="1489.9947748578454" y="595.76" width="4" height="46" fill="var(--fg)"><title>Swarm (16 agents), median $2.92</title></rect><circle cx="1490.1506070385738" cy="618.76" r="11" fill="var(--dim)" stroke="var(--bg)" stroke-width="3"/><circle cx="1493.8389426771168" cy="618.76" r="11" fill="var(--dim)" stroke="var(--bg)" stroke-width="3"/><text x="1634" y="630.76" font-size="40" font-weight="600" fill="var(--dim)" style="font-variant-numeric:tabular-nums">$2.92</text><text x="160" y="840" font-size="26" font-weight="400" fill="var(--dim)" style="font-variant-numeric:tabular-nums">Source: runs.jsonl. Swarm: Opus planner, 12 Haiku coders, 3 reviewers. 1 run with a platform stall left out of time</text></svg></div><div class="P"><svg xmlns="http://www.w3.org/2000/svg" style="aspect-ratio:1080/1350" viewBox="0 0 1080 1350" role="img" aria-label="Club: one Opus agent was 1.5x faster; the swarm cost 50% less; the same quality: both passed 42 of 42 hidden tests" font-family="Geist, 'Instrument Sans', system-ui, sans-serif"><rect width="1080" height="1350" fill="var(--bg)"/><text x="56" y="136.7" font-size="62" font-weight="600" fill="var(--fg)" letter-spacing="-1.6" style="font-variant-numeric:tabular-nums">Club: one Opus agent was 1.5x</text><text x="56" y="206.14" font-size="62" font-weight="600" fill="var(--fg)" letter-spacing="-1.6" style="font-variant-numeric:tabular-nums">faster; the swarm cost 50%</text><text x="56" y="275.58000000000004" font-size="62" font-weight="600" fill="var(--fg)" letter-spacing="-1.6" style="font-variant-numeric:tabular-nums">less; the same quality: both</text><text x="56" y="345.02" font-size="62" font-weight="600" fill="var(--fg)" letter-spacing="-1.6" style="font-variant-numeric:tabular-nums">passed 42 of 42 hidden tests</text><text x="56" y="425.02000000000004" font-size="44" font-weight="400" fill="var(--dim)" style="font-variant-numeric:tabular-nums">Interim, 1 vs 2 runs; swarm time from its 1 clean run, dot = a run,</text><text x="56" y="484.4200000000001" font-size="44" font-weight="400" fill="var(--dim)" style="font-variant-numeric:tabular-nums">line = the median</text><text x="56" y="576.4200000000001" font-size="40" font-weight="600" fill="var(--fg)" style="font-variant-numeric:tabular-nums">Minutes to finish</text><text x="56" y="634.4200000000001" font-size="34" font-weight="600" fill="var(--fg)" style="font-variant-numeric:tabular-nums">Opus</text><rect x="206" y="608.4200000000001" width="678" height="30" rx="4" fill="var(--card)"/><rect x="206.5" y="608.9200000000001" width="677" height="29" rx="4" fill="none" stroke="var(--line)"/><rect x="626.4949414973167" y="600.4200000000001" width="4" height="46" fill="var(--fg)"><title>One Opus agent, median 14 min</title></rect><circle cx="628.4949414973167" cy="623.4200000000001" r="11" fill="var(--acc)" stroke="var(--bg)" stroke-width="3"/><text x="898" y="635.4200000000001" font-size="36" font-weight="600" fill="var(--fg)" style="font-variant-numeric:tabular-nums">14 min</text><text x="56" y="704.4200000000001" font-size="34" font-weight="400" fill="var(--dim)" style="font-variant-numeric:tabular-nums">Swarm</text><rect x="206" y="678.4200000000001" width="678" height="30" rx="4" fill="var(--card)"/><rect x="206.5" y="678.9200000000001" width="677" height="29" rx="4" fill="none" stroke="var(--line)"/><rect x="831.7777777777778" y="670.4200000000001" width="4" height="46" fill="var(--fg)"><title>Swarm (16 agents), median 21 min</title></rect><circle cx="833.7777777777778" cy="693.4200000000001" r="11" fill="var(--dim)" stroke="var(--bg)" stroke-width="3"/><text x="898" y="705.4200000000001" font-size="36" font-weight="600" fill="var(--dim)" style="font-variant-numeric:tabular-nums">21 min</text><text x="56" y="796.9466666666667" font-size="40" font-weight="600" fill="var(--fg)" style="font-variant-numeric:tabular-nums">Quality (judge ±2)</text><text x="56" y="854.9466666666667" font-size="34" font-weight="600" fill="var(--fg)" style="font-variant-numeric:tabular-nums">Opus</text><rect x="206" y="828.9466666666667" width="678" height="30" rx="4" fill="var(--card)"/><rect x="206.5" y="829.4466666666667" width="677" height="29" rx="4" fill="none" stroke="var(--line)"/><rect x="475.2" y="820.9466666666667" width="4" height="46" fill="var(--fg)"><title>One Opus agent, median 88</title></rect><circle cx="477.2" cy="843.9466666666667" r="11" fill="var(--acc)" stroke="var(--bg)" stroke-width="3"/><text x="898" y="855.9466666666667" font-size="36" font-weight="600" fill="var(--fg)" style="font-variant-numeric:tabular-nums">88</text><text x="56" y="924.9466666666667" font-size="34" font-weight="400" fill="var(--dim)" style="font-variant-numeric:tabular-nums">Swarm</text><rect x="206" y="898.9466666666667" width="678" height="30" rx="4" fill="var(--card)"/><rect x="206.5" y="899.4466666666667" width="677" height="29" rx="4" fill="none" stroke="var(--line)"/><rect x="610.8" y="890.9466666666667" width="4" height="46" fill="var(--fg)"><title>Swarm (16 agents), median 92</title></rect><circle cx="612.8" cy="906.9466666666667" r="11" fill="var(--dim)" stroke="var(--bg)" stroke-width="3"/><circle cx="612.8" cy="920.9466666666667" r="11" fill="var(--dim)" stroke="var(--bg)" stroke-width="3"/><text x="898" y="925.9466666666667" font-size="36" font-weight="600" fill="var(--dim)" style="font-variant-numeric:tabular-nums">92</text><text x="56" y="1017.4733333333334" font-size="40" font-weight="600" fill="var(--fg)" style="font-variant-numeric:tabular-nums">Cost, API-equivalent</text><text x="56" y="1075.4733333333334" font-size="34" font-weight="600" fill="var(--fg)" style="font-variant-numeric:tabular-nums">Opus</text><rect x="206" y="1049.4733333333334" width="678" height="30" rx="4" fill="var(--card)"/><rect x="206.5" y="1049.9733333333334" width="677" height="29" rx="4" fill="none" stroke="var(--line)"/><rect x="831.7777777777778" y="1041.4733333333334" width="4" height="46" fill="var(--fg)"><title>One Opus agent, median $5.78</title></rect><circle cx="833.7777777777778" cy="1064.4733333333334" r="11" fill="var(--acc)" stroke="var(--bg)" stroke-width="3"/><text x="898" y="1076.4733333333334" font-size="36" font-weight="600" fill="var(--fg)" style="font-variant-numeric:tabular-nums">$5.78</text><text x="56" y="1145.4733333333334" font-size="34" font-weight="400" fill="var(--dim)" style="font-variant-numeric:tabular-nums">Swarm</text><rect x="206" y="1119.4733333333334" width="678" height="30" rx="4" fill="var(--card)"/><rect x="206.5" y="1119.9733333333334" width="677" height="29" rx="4" fill="none" stroke="var(--line)"/><rect x="520.3852389734133" y="1111.4733333333334" width="4" height="46" fill="var(--fg)"><title>Swarm (16 agents), median $2.92</title></rect><circle cx="517.175464883971" cy="1134.4733333333334" r="11" fill="var(--dim)" stroke="var(--bg)" stroke-width="3"/><circle cx="527.5950130628554" cy="1134.4733333333334" r="11" fill="var(--dim)" stroke="var(--bg)" stroke-width="3"/><text x="898" y="1146.4733333333334" font-size="36" font-weight="600" fill="var(--dim)" style="font-variant-numeric:tabular-nums">$2.92</text><text x="56" y="1252" font-size="30" font-weight="400" fill="var(--dim)" style="font-variant-numeric:tabular-nums">Source: runs.jsonl. Swarm: Opus planner, 12 Haiku</text><text x="56" y="1291" font-size="30" font-weight="400" fill="var(--dim)" style="font-variant-numeric:tabular-nums">coders, 3 reviewers. 1 run with a platform stall left out of time</text></svg></div>
+<details><summary>The numbers</summary><table><tr><th>run</th><th>variant</th><th>minutes</th><th>platform stall</th><th>hidden tests</th><th>judge</th><th>quality</th><th>API-equivalent $</th></tr><tr><td>lab-club-5db67-r1</td><td>one Opus agent</td><td>14.2</td><td></td><td>42/42</td><td>4</td><td>88</td><td>5.78</td></tr><tr><td>lab-club-40f21-r1</td><td>swarm</td><td>26.9</td><td>yes: left out of time</td><td>42/42</td><td>6</td><td>92</td><td>2.87</td></tr><tr><td>lab-club-40f21-r2</td><td>swarm</td><td>21.1</td><td></td><td>42/42</td><td>6</td><td>92</td><td>2.96</td></tr></table>
+<p class="files">Source: public/lab/runs.jsonl, scenario club, status done. Files: <a href="lab-club-1920x1080-dark.png">1920x1080 dark</a> <a href="lab-club-1920x1080-light.png">1920x1080 light</a> <a href="lab-club-1080x1350-dark.png">1080x1350 dark</a> <a href="lab-club-1080x1350-light.png">1080x1350 light</a></p></details>
 </section>
 <footer>Built by docs/lab/charts/build.mjs from public/lab/runs.jsonl.</footer>
 </main></body></html>
